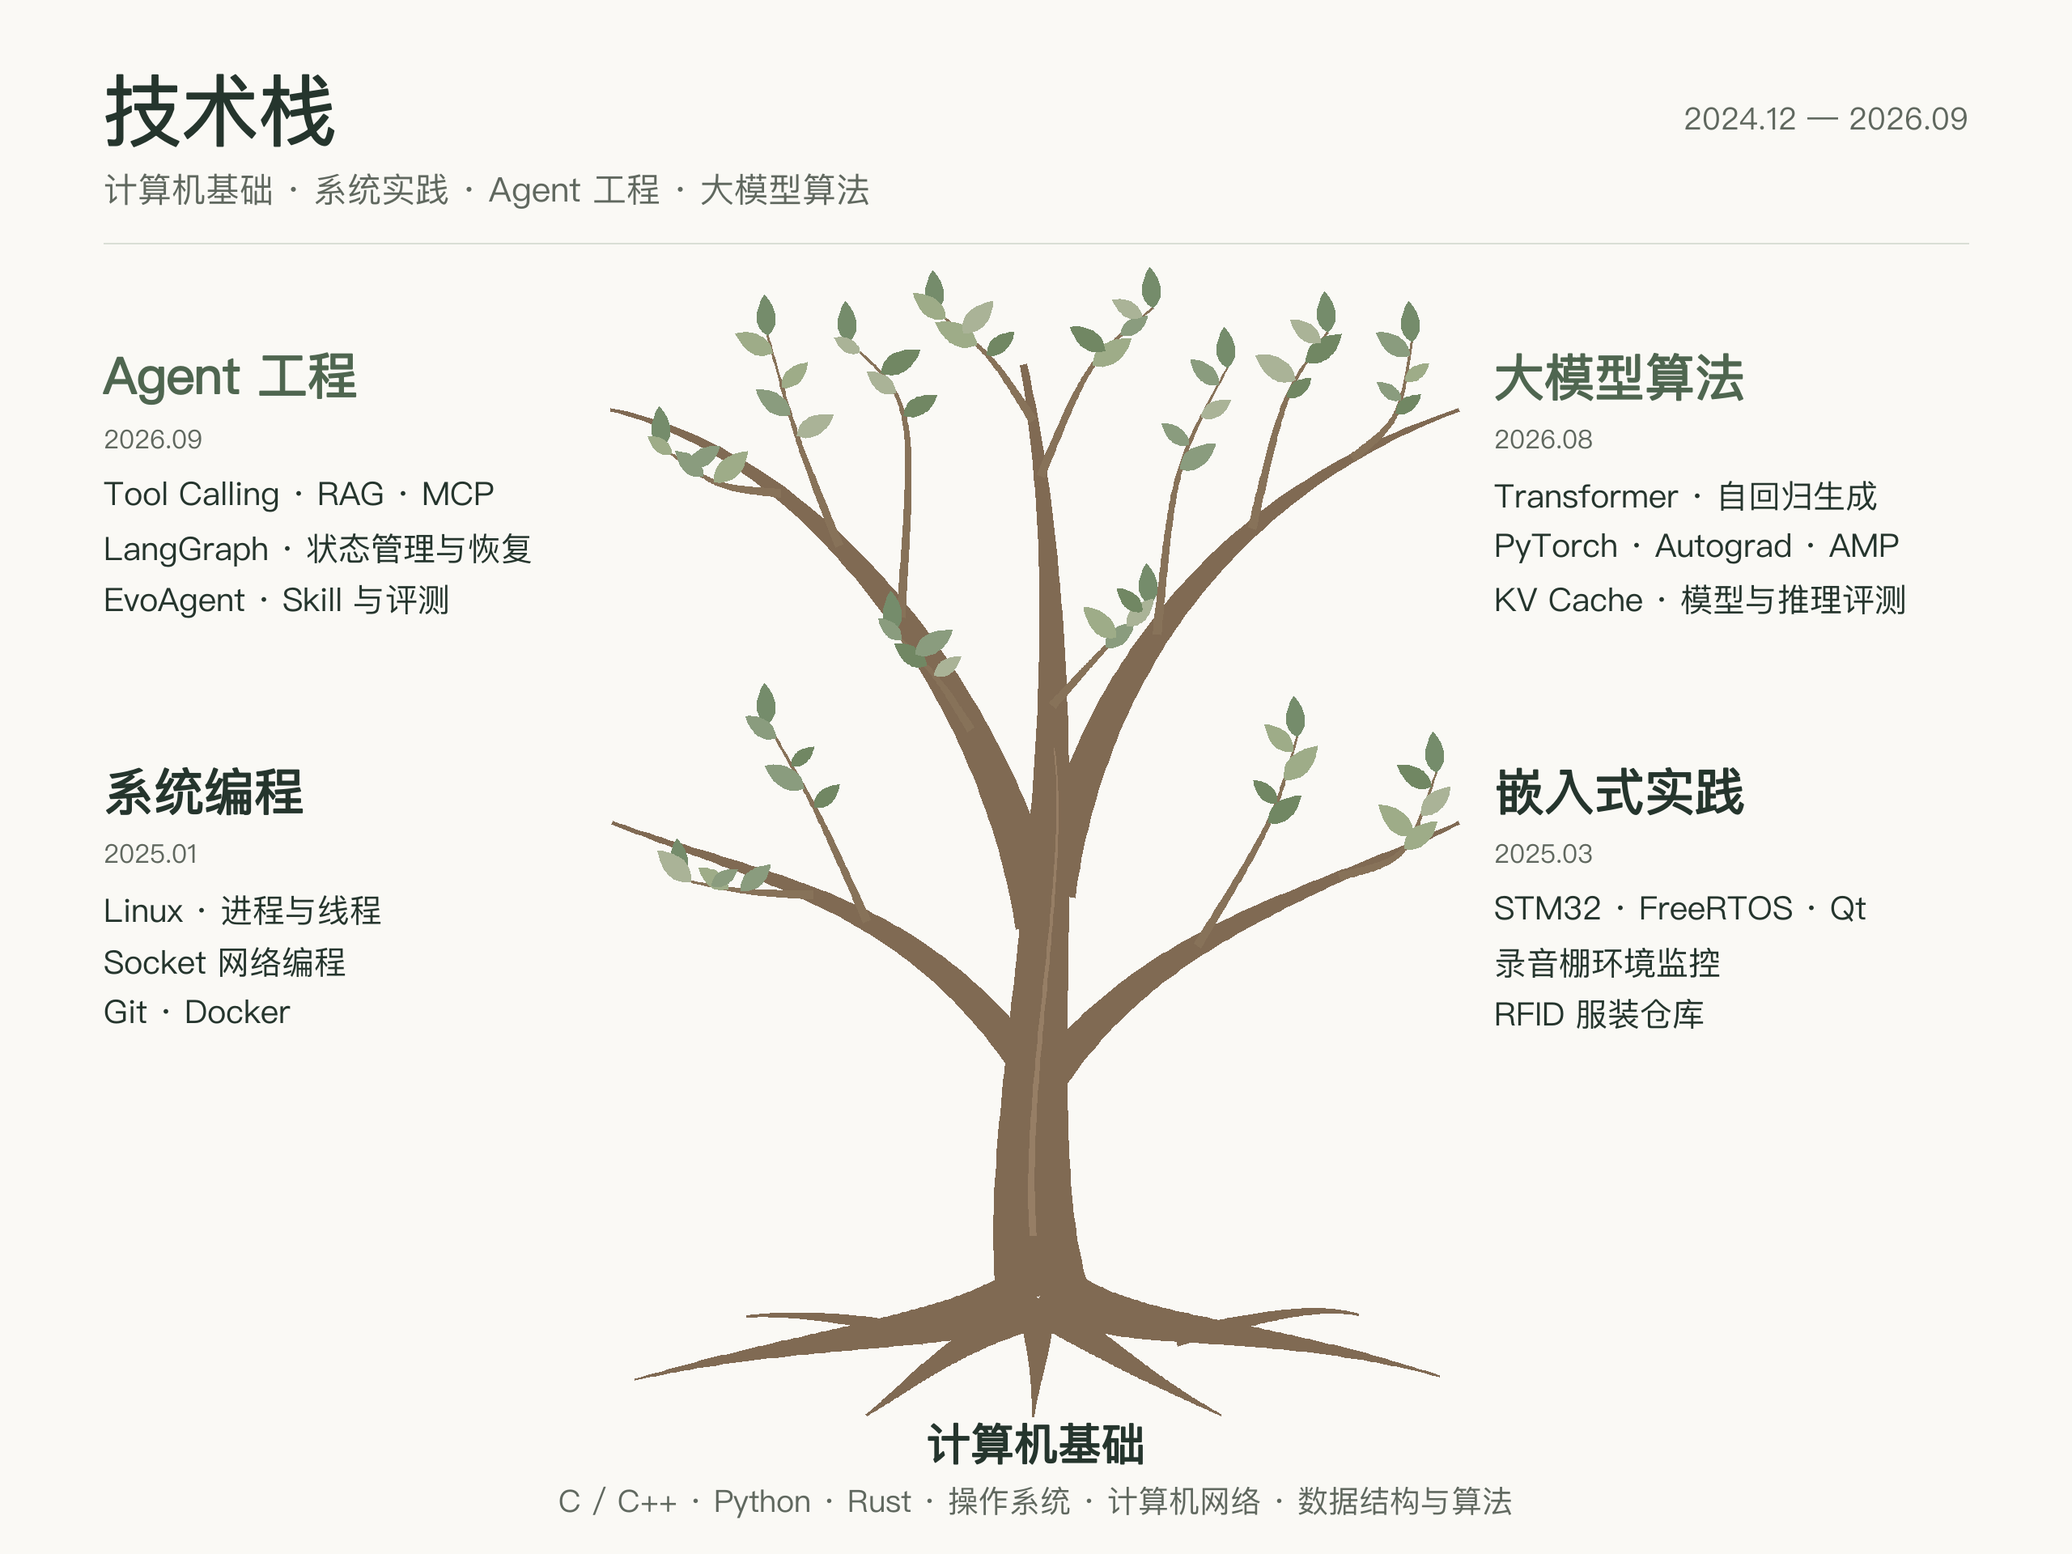
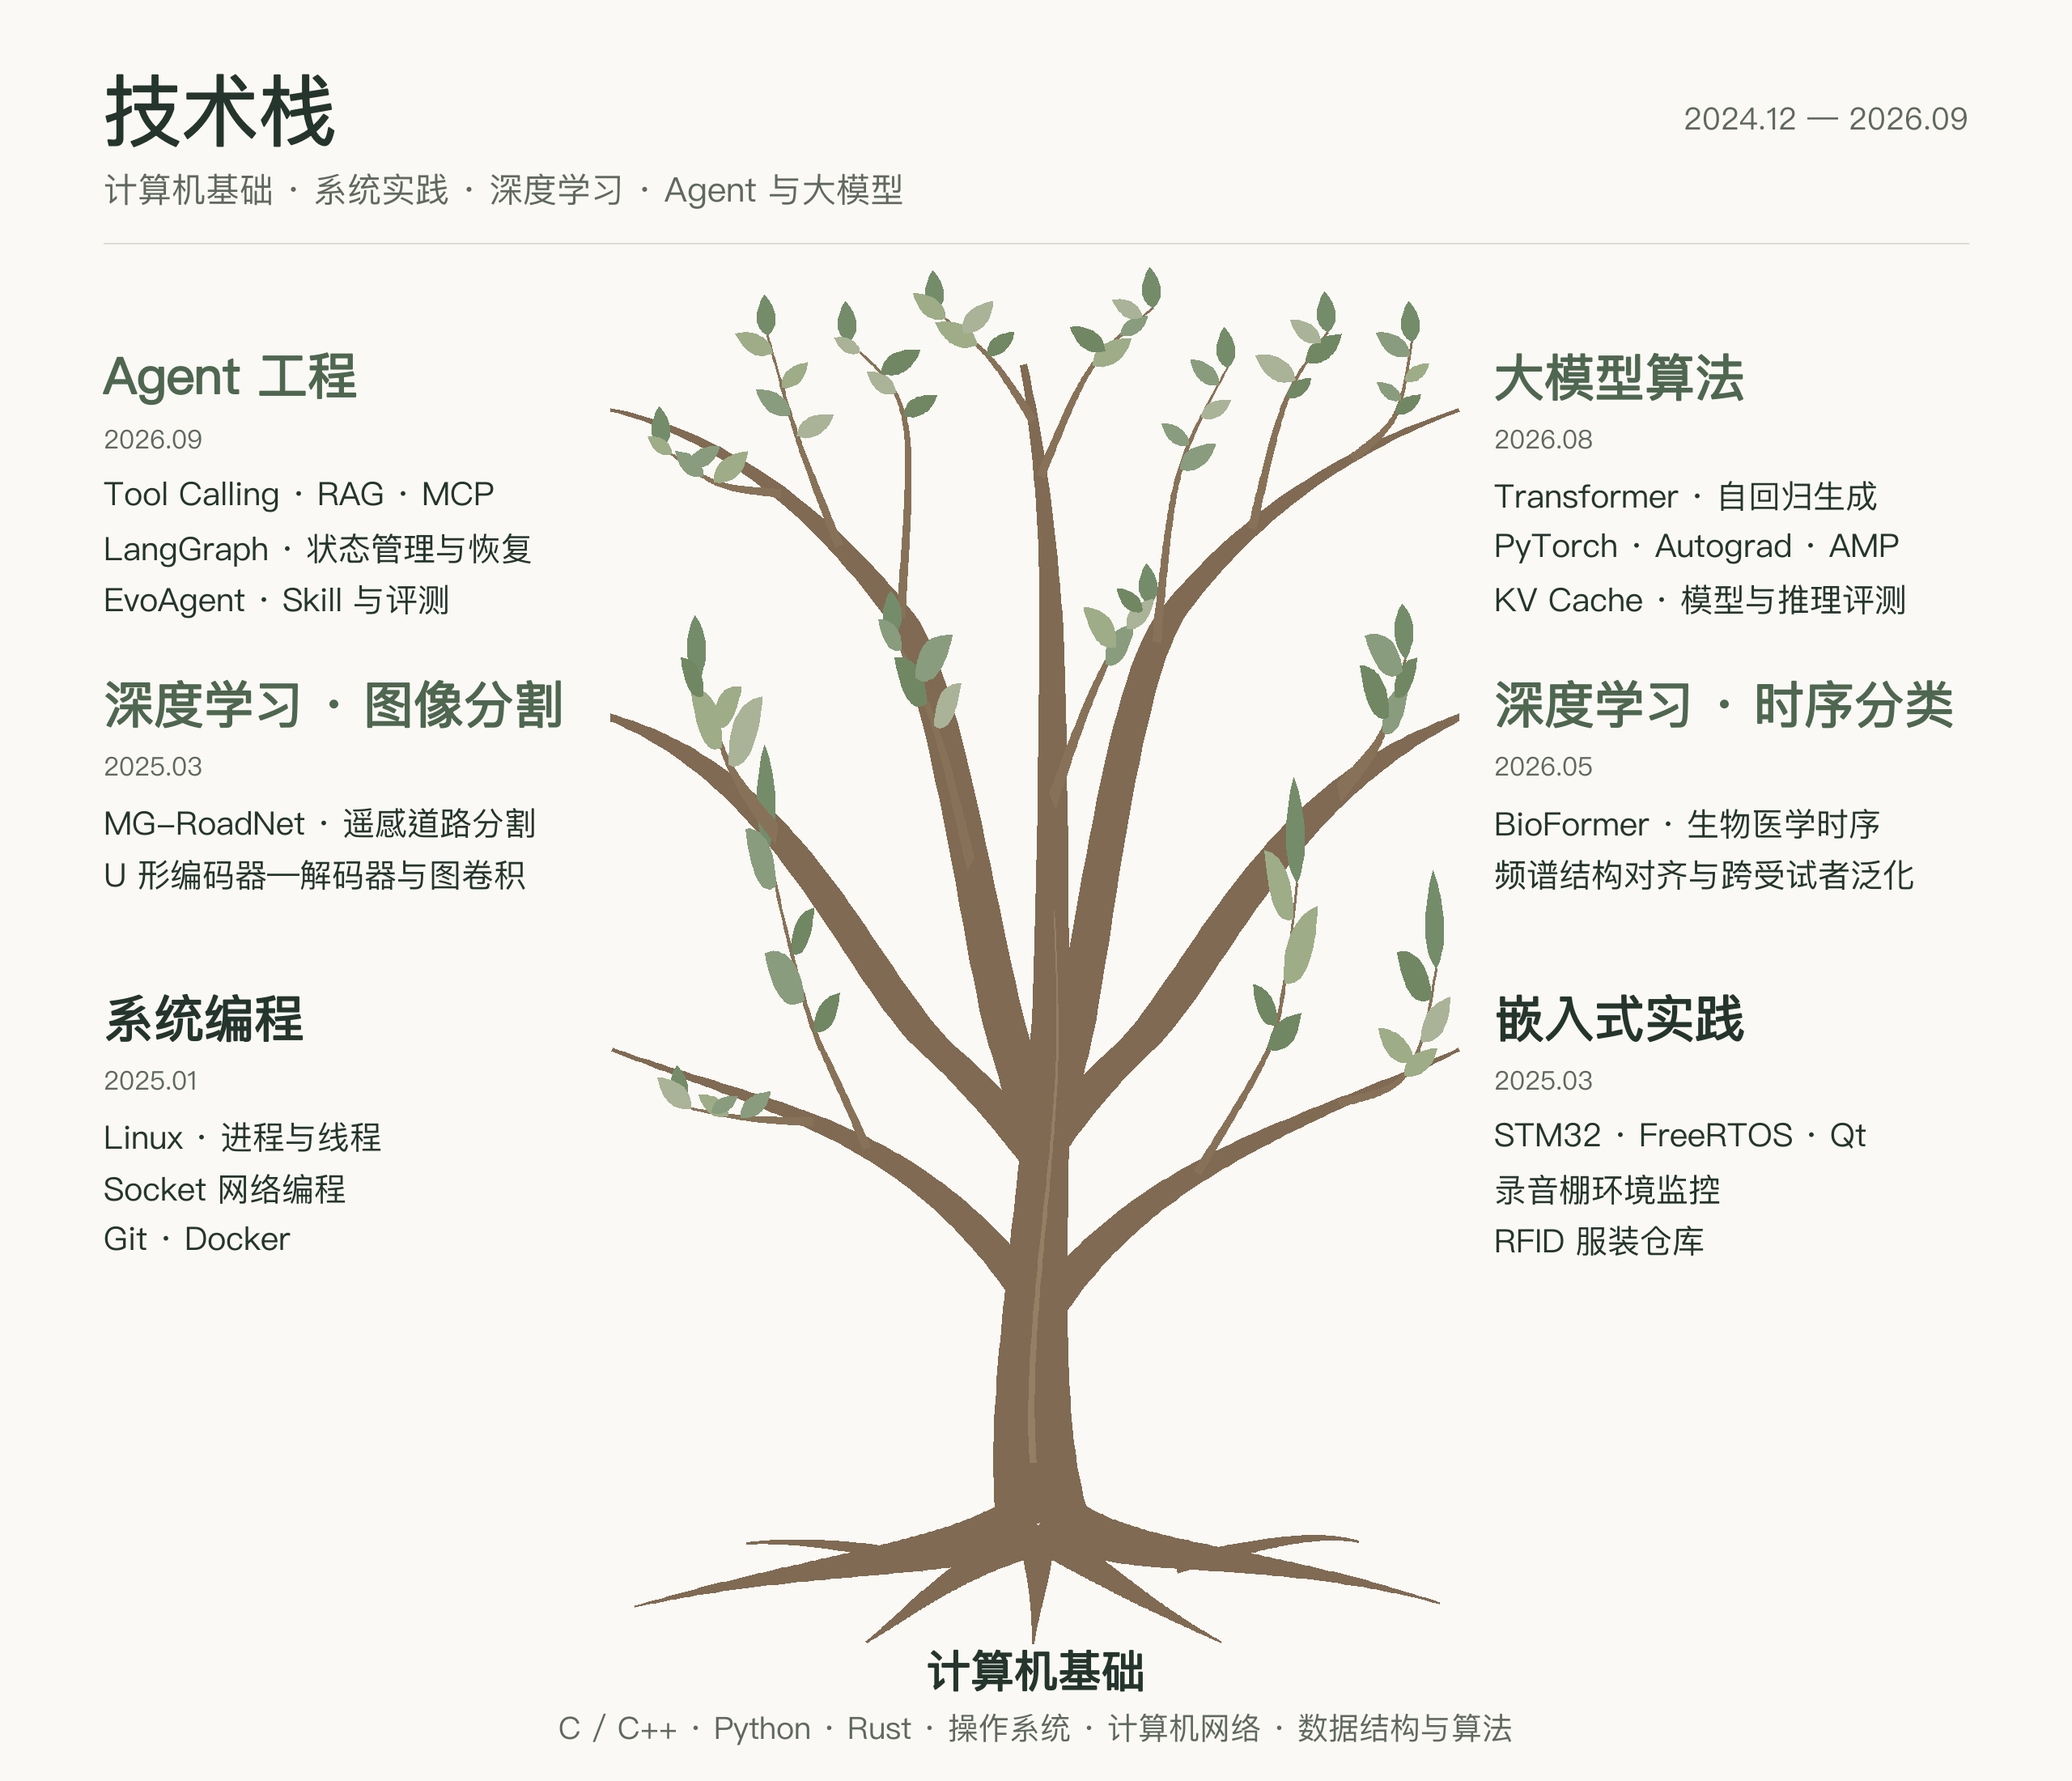
docs: add deep learning projects to skills tree

diff --git a/README.md b/README.md
@@ -1,1 +1,1 @@
-![技术栈树：以计算机基础为根，向 Agent 工程、大模型算法、系统编程与嵌入式实践延伸](assets/technical-profile.png)
+![技术栈树：以计算机基础为根，从系统实践和深度学习延伸到 Agent 工程与大模型算法](assets/technical-profile.png)
